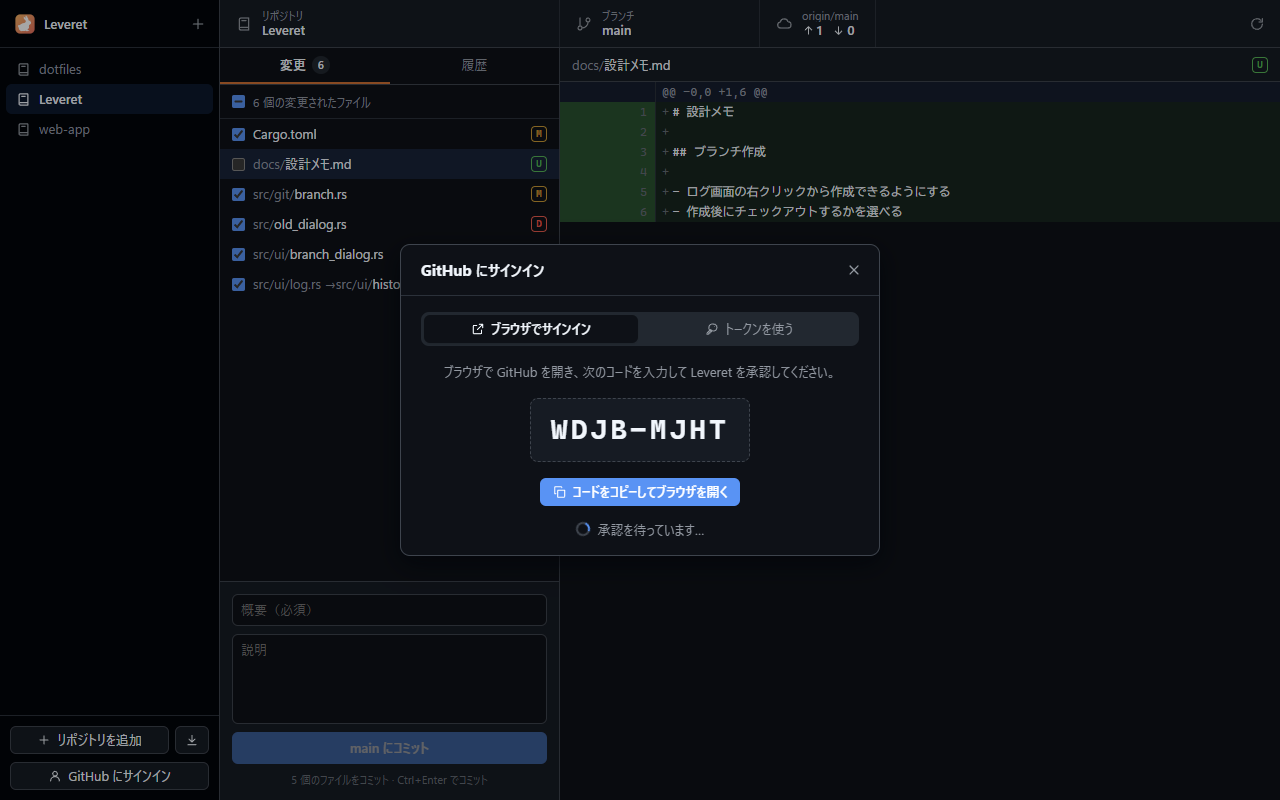
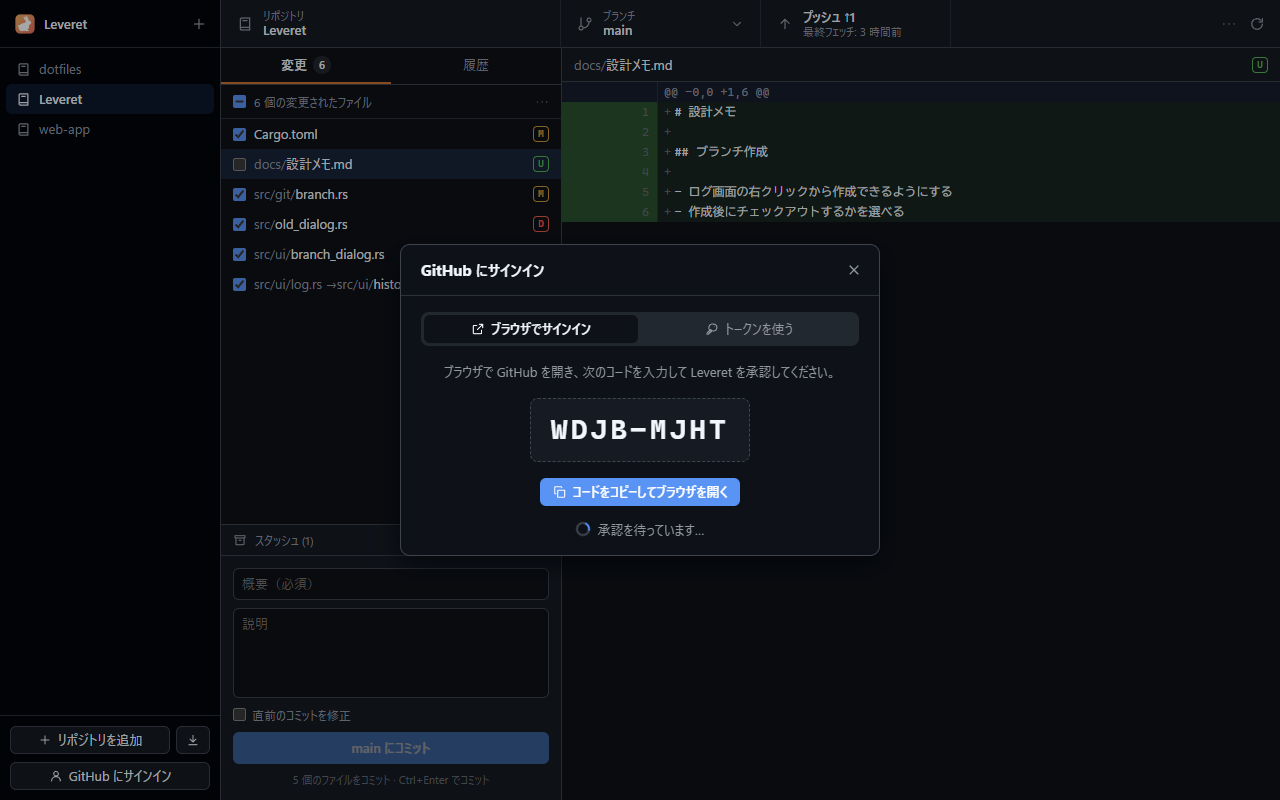
docs: document the new features and refresh screenshots
- Features, shortcuts and reliability sections in both READMEs
- New screenshots for branches, conflicts and menus
- Conventions for git errors, actions and robustness in AGENTS.md

diff --git a/README.md b/README.md
@@ -29,12 +29,19 @@ Pick a repository from your list, review the changes, commit. That's it.
 | **Repository list** | Register repositories by folder picker or drag & drop, switch with one click. |
 | **GitHub sign-in & clone** | Sign in through the browser (or with a token), pick one of your repositories, clone it with a progress bar. |
 | **Commit what you pick** | Check the files to include, write a summary and description, `Ctrl+Enter`. |
+| **Fetch, pull, push** | One toolbar button that does the right thing (pull, push, publish, sync) with progress; fetches in the background every 10 minutes. |
+| **Branches** | Switch, create, merge, rebase and delete from one dialog; remote branches become tracking branches. |
+| **Undo-friendly** | Discarded changes go to the Recycle Bin; amend or undo the last commit; revert or cherry-pick any commit. |
+| **Clear conflicts** | A banner for stopped merges, rebases and reverts: mark resolved, continue, skip or abort. |
+| **Stash** | Put work aside and bring it back later. |
+| **Comfortable** | Resizable panes, right-click menus, keyboard shortcuts and history search. |
 | **Readable diffs** | Line numbers, hunk headers, and Shift_JIS files decoded correctly. |
 | **History with a graph** | Branch lanes, branch / remote / tag labels, commit details and per-file diffs. |
 | **Light & dark** | Follows the Windows theme. |
 | **Ready for translation** | All UI text lives in typed message catalogs (Japanese today). |
 | **Built-in screenshots** | Captures every screen in the background — great for docs and reviews. |
 | **Locked down** | A desktop app, not a browser tab: no devtools, reload, print or zoom; strict input validation in the backend. |
+| **Sturdy** | Git actions never overlap, a failing view recovers in place, and crashes are logged instead of lost. |
 
 > [!NOTE]
 > Leveret drives your installed `git.exe`, so your config, credential helpers, SSH keys and hooks work exactly as on the command line.
@@ -61,11 +68,36 @@ Pick a repository from your list, review the changes, commit. That's it.
   <tr>
     <td width="50%">
       <picture>
+        <source media="(prefers-color-scheme: dark)" srcset="docs/screenshots/dark/10-branches.png">
+        <img alt="Branch dialog with local and remote branches" src="docs/screenshots/light/10-branches.png">
+      </picture>
+      <p align="center"><b>Branches</b> — switch, merge, rebase</p>
+    </td>
+    <td width="50%">
+      <picture>
+        <source media="(prefers-color-scheme: dark)" srcset="docs/screenshots/dark/13-rebase-conflict.png">
+        <img alt="A rebase stopped on conflicts" src="docs/screenshots/light/13-rebase-conflict.png">
+      </picture>
+      <p align="center"><b>Conflicts</b> — resolve, continue or abort</p>
+    </td>
+  </tr>
+  <tr>
+    <td width="50%">
+      <picture>
+        <source media="(prefers-color-scheme: dark)" srcset="docs/screenshots/dark/12-history-menu.png">
+        <img alt="Context menu on a commit" src="docs/screenshots/light/12-history-menu.png">
+      </picture>
+      <p align="center"><b>Right-click</b> — revert, cherry-pick, branch off</p>
+    </td>
+    <td width="50%">
+      <picture>
         <source media="(prefers-color-scheme: dark)" srcset="docs/screenshots/dark/08-clone.png">
         <img alt="Cloning one of your GitHub repositories" src="docs/screenshots/light/08-clone.png">
       </picture>
       <p align="center"><b>Clone</b> — straight from your GitHub account</p>
     </td>
+  </tr>
+  <tr>
     <td width="50%">
       <picture>
         <source media="(prefers-color-scheme: dark)" srcset="docs/screenshots/dark/07-sign-in.png">
@@ -73,21 +105,12 @@ Pick a repository from your list, review the changes, commit. That's it.
       </picture>
       <p align="center"><b>Sign in</b> — approve in your browser</p>
     </td>
-  </tr>
-  <tr>
     <td width="50%">
       <picture>
         <source media="(prefers-color-scheme: dark)" srcset="docs/screenshots/dark/01-welcome.png">
         <img alt="Welcome screen" src="docs/screenshots/light/01-welcome.png">
       </picture>
       <p align="center"><b>Welcome</b> — add or clone your first repository</p>
-    </td>
-    <td width="50%">
-      <picture>
-        <source media="(prefers-color-scheme: dark)" srcset="docs/screenshots/dark/06-error.png">
-        <img alt="Error dialog" src="docs/screenshots/light/06-error.png">
-      </picture>
-      <p align="center"><b>Errors</b> — a clear message plus git's own output</p>
     </td>
   </tr>
 </table>
@@ -102,7 +125,7 @@ flowchart LR
         A -. browser / --mock .-> M[mock.ts]
     end
     subgraph Core["backend/ — Rust + Tauri 2"]
-        V{{input validation}} --> G[git wrapper<br>status · diff · log · commit · clone]
+        V{{input validation}} --> G[git wrapper<br>status · diff · log · commit<br>remote · branch · rebase · stash]
         V --> R[repository list<br>repos.json]
         V --> H[GitHub API<br>device flow · repos]
         V --> P[WebView2 capture]
@@ -133,7 +156,7 @@ Just want to look at the UI? `scripts\preview.bat` opens it in your browser with
 ### Build a release
 
 ```bat
-scripts\publish.bat   :: -> artifacts\<version>\ (exe, NSIS installer, MSI)
+scripts\publish.bat   :: -> artifacts\<version>\Leveret_<version>.exe and a zip of it
 ```
 
 ### GitHub sign-in
@@ -150,6 +173,20 @@ Signing in **through the browser** (the OAuth device flow, like GitHub Desktop) 
 The token is stored in Windows Credential Manager and handed to git only through environment variables,
 so it never appears on a command line or in a repository's config.
 
+## Keyboard shortcuts
+
+| Keys | Action |
+|---|---|
+| `Ctrl+1` / `Ctrl+2` | Changes / History |
+| `Ctrl+Enter` | Commit |
+| `Ctrl+B` | Branches |
+| `Ctrl+Shift+N` | New branch |
+| `Ctrl+Shift+F` / `Ctrl+Shift+L` / `Ctrl+Shift+P` | Fetch / Pull / Push |
+| `Ctrl+F` | Search the history |
+| `F5` | Refresh |
+| `Shift+F10`, menu key, right click | Context menu |
+| `Ctrl+Shift+S` | Save a screenshot |
+
 ## Scripts
 
 Every `.bat` works from a terminal or by double-clicking, and forwards its arguments to the matching `.ps1`.
@@ -161,7 +198,7 @@ Every `.bat` works from a terminal or by double-clicking, and forwards its argum
 | `scripts\preview.bat [-Scene <id>] [-Theme light\|dark] [-App]` | UI only, in a browser with sample data (`-App`: as the desktop app) |
 | `scripts\test.bat [-Fast]` | Static security rules, `svelte-check`, frontend build, `cargo test`, `cargo clippy` |
 | `scripts\security.bat [-Offline]` | Static security rules, `npm audit`, `cargo audit`, backend security tests |
-| `scripts\publish.bat [-NoBundle] [-SkipTests]` | Release build into `artifacts\<version>\` |
+| `scripts\publish.bat [-SkipTests]` | Release build: `artifacts\<version>\Leveret_<version>.exe` and `Leveret_<version>_x64.zip` |
 | `scripts\screenshot.bat [-Browser] [-Theme light\|dark\|both] [-Real] [-Scenes a,b] [-Open]` | Captures every screen into `artifacts\screenshots\` |
 | `scripts\version.bat [<x.y.z> \| major \| minor \| patch]` | Bumps the version everywhere (prompts when run without arguments) |
 | `scripts\clean.ps1 [-All]` | Removes build outputs |
@@ -191,6 +228,14 @@ Leveret treats its own webview as untrusted and keeps the Rust backend as the tr
   all network access happens in Rust.
 - **Checked continuously**: `scripts\security.bat` runs static rules, dependency audits and security tests.
 
+## Reliability
+
+- **One git action at a time**: buttons and shortcuts are disabled while an action runs, so double clicks never start overlapping commands.
+- **Nothing is lost silently**: discarded files go to the Recycle Bin, stopped operations can always be aborted, and the repository
+  list is written atomically (an unreadable one is kept as `repos.json.bak`).
+- **Contained failures**: an error inside a view shows a "show again" panel instead of a blank window; a panic inside a backend command
+  fails only that command and is written to `%LOCALAPPDATA%\com.leveret.desktop\logs\crash.log`.
+
 ## Project layout
 
 ```text
@@ -201,13 +246,17 @@ frontend/                 Svelte UI (its own package.json, vite.config.ts, tscon
   src/lib/mock.ts           sample-data backend for the browser and --mock
   src/lib/capture.ts        screenshot scenes
   src/lib/lockdown.ts       blocks browser shortcuts and gestures
+  src/lib/layout.svelte.ts  resizable pane sizes
+  src/lib/menu.svelte.ts    the app's own context menu
   src/lib/i18n/             message catalogs (locales/ja.ts defines the keys)
 backend/                  Rust / Tauri (its own Cargo.toml, tauri.conf.json)
-  src/git/                  status, diff, log + graph, commit, clone
+  src/git/                  status, diff, log + graph, commit, clone, remote, branch,
+                            operation (merge / rebase / revert), discard, stash
   src/github.rs             device flow, token storage, repository list
   src/security.rs           validation of everything coming from the webview
   src/lockdown.rs           WebView2 hardening
   src/capture.rs            WebView2 screen capture
+  src/crash.rs              crash log and fatal error message
   icons/generate_icon.py    draws icons/leveret.svg (the app icon)
 scripts/                  developer scripts
 docs/screenshots/         images used by this README
@@ -225,11 +274,13 @@ Backend errors arrive as `{ code, detail }` and are shown through the `errors.<c
 - [x] Repository list, changes, commit
 - [x] History with graph and commit details
 - [x] GitHub sign-in and clone
-- [ ] Fetch / pull / push / sync
-- [ ] Branch create / switch, checkout
-- [ ] Revert, rebase
+- [x] Fetch / pull / push / sync
+- [x] Branch create / switch / delete, checkout
+- [x] Revert, cherry-pick, merge, rebase, stash
 - [ ] Open diffs in WinMerge
 - [ ] English UI
+- [ ] Tags
+- [ ] Interactive rebase
 
 ## Contributing
 

diff --git a/AGENTS.md b/AGENTS.md
@@ -25,8 +25,19 @@ Users register repositories in a list and commit / browse history from there.
 
 - Short imperative summary, at most 72 characters, optionally prefixed with a Conventional Commits type:
   `feat:`, `fix:`, `docs:`, `refactor:`, `test:`, `build:`, `chore:`.
-- Wrap the body at 72 characters and explain *why* when it is not obvious.
+- Keep the body short: a few `- ` bullet points with the key changes (at most 8 lines). No paragraphs.
+- No trailers such as `Co-Authored-By:` or `Signed-off-by:`.
 - One logical change per commit. Run `scripts\test.bat` before committing.
+
+Example:
+
+```
+feat: add fetch, pull and push
+
+- Toolbar buttons with progress and ahead/behind counts
+- Publish branches without an upstream
+- Use the GitHub token for https://github.com remotes
+```
 
 ## Conventions
 
@@ -35,7 +46,13 @@ Users register repositories in a list and commit / browse history from there.
 - **Backend errors** are `AppError` variants serialized as `{ code, detail }` (`backend/src/error.rs`).
   When adding a variant, add a matching `errors.<code>` message.
 - **Git access** goes through `git::Git` (`backend/src/git/mod.rs`), which sets safe defaults
-  (no console window, literal pathspecs, no prompts). Prefer `-z` / porcelain output and parse it in Rust.
+  (no console window, literal pathspecs, no prompts, `LC_ALL=C`). Prefer `-z` / porcelain output and parse it in Rust.
+  Map well-known git failures with `AppError::classify_git`; decide "stopped on conflicts" from the repository
+  state (`git::operation::run_stoppable`), not from message text.
+- **Actions that change a repository** run through `AppState.run()` in `state.svelte.ts`, which allows one at a time.
+  Destructive actions ask for confirmation, and discarded files go to the Recycle Bin.
+- **Robustness**: no `unwrap()` / `expect()` outside tests; long work runs in `blocking()` so a panic only fails that
+  command (it is logged by `crash.rs`). Persist files atomically (write a temporary file, then rename).
 - Keep the mock backend (`frontend/src/lib/mock.ts`) in sync with new commands so the UI preview and
   screenshots keep working.
 - **New screens or states** get a capture scene in `frontend/src/lib/capture.ts`; check them with
